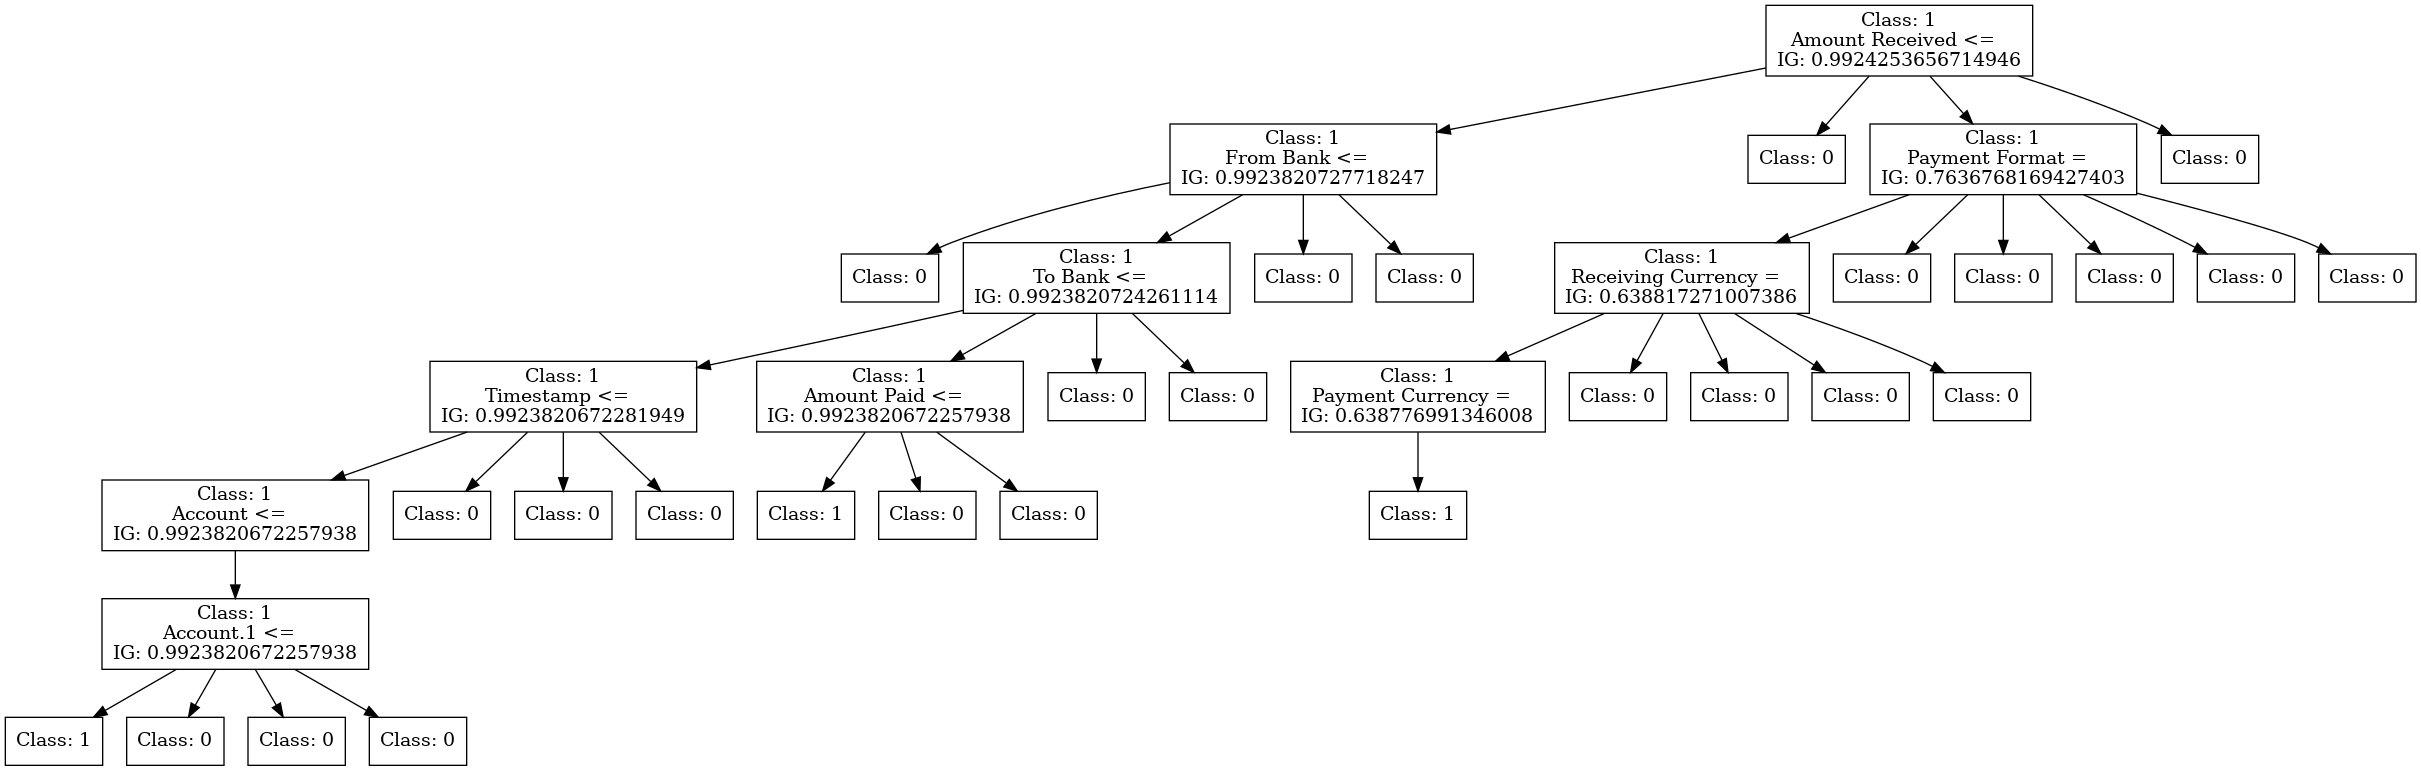
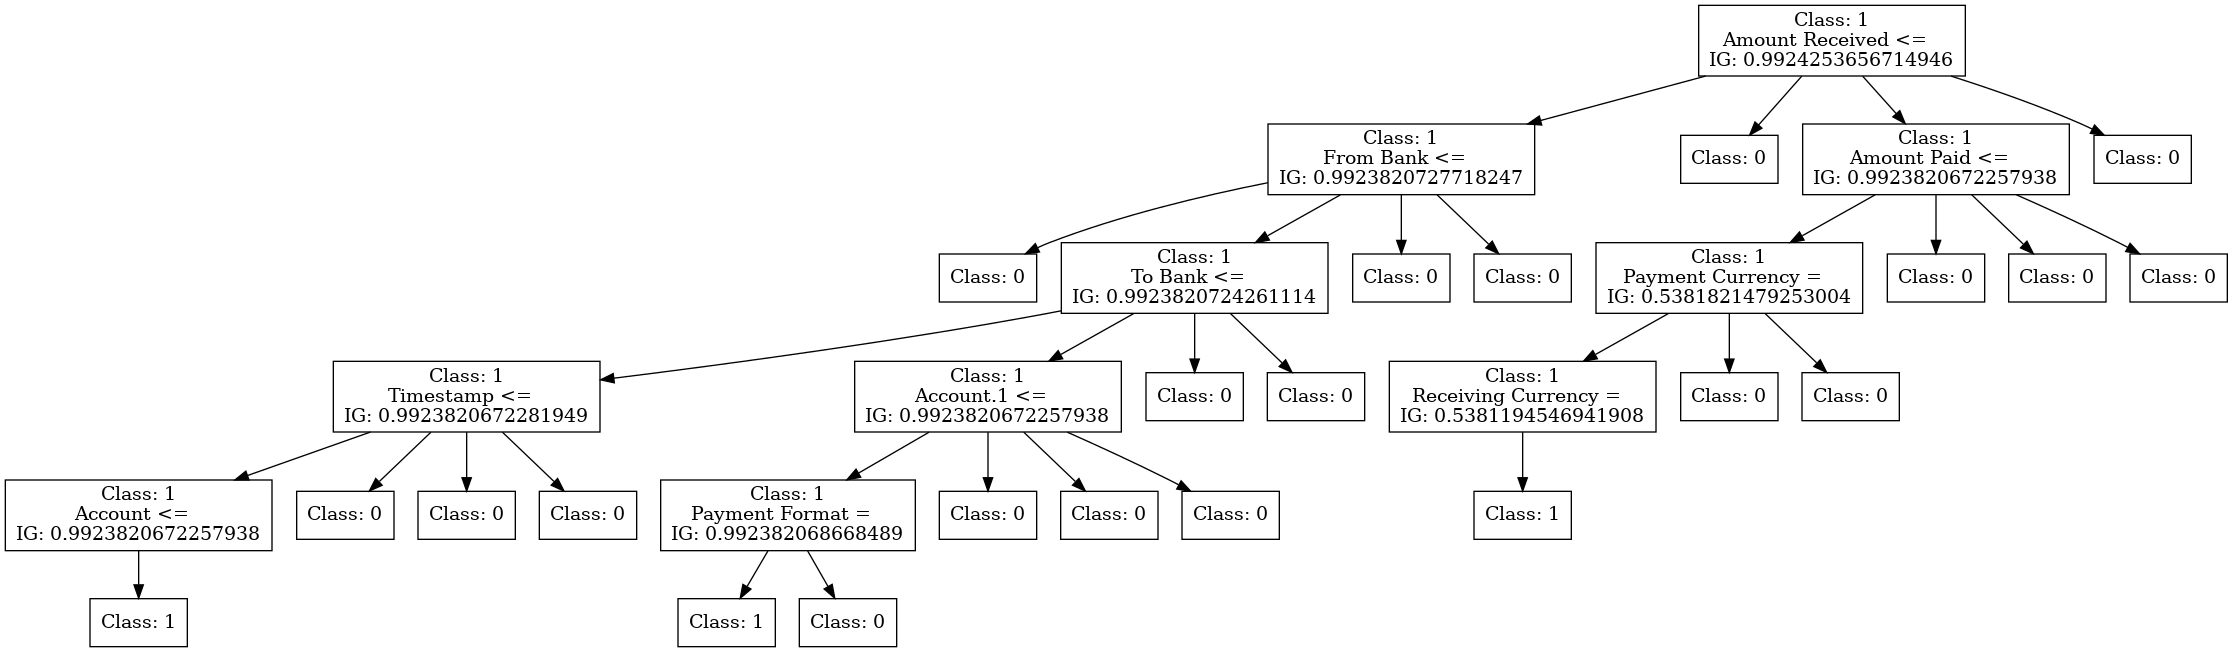
DT: Fix CustomDecisionTree implemtation

diff --git a/src/decision_tree/decision_tree.py b/src/decision_tree/decision_tree.py
@@ -51,51 +51,30 @@ class CustomConditionNode(ConditionNode):
         """
         imp_func: 0 = entropy, 1 = gini
         """
-        imp_func: MethodType = self._scaled_entropy if imp_func == self.IMP_FUNC_ENTROPY else self._gini_impurity
+        imp_func: MethodType = self._entropy if imp_func == self.IMP_FUNC_ENTROPY else self._gini_impurity
         mask: pd.Series = attr_series == test_value if is_categorical else attr_series <= test_value
         a: int   = sum(mask)
         b: int   = sum(~mask)
         tot: int = a + b
-        return imp_func(self.df_y) - (a/tot)*imp_func(self.df_y[mask]) - (b/tot)*imp_func(self.df_y[~mask])
-    
-    def _scaled_entropy(self, y: pd.Series) -> float:
-        if isinstance(y, pd.Series):
-            prob: float    = y.value_counts() / y.shape[0]
-            e: float       = 1e-9
-            entropy: float = np.sum(-prob * np.log2(prob+e))
-            return entropy
-        else:
-            raise Exception("y must be a pandas Series")
+        return imp_func(self.df_y) - (a/tot)*imp_func(self.df_y.loc[list(self.subset_indeces)][mask]) - (b/tot)*imp_func(self.df_y.loc[list(self.subset_indeces)][~mask])
     
     def _generate_attribute_best(self, imp_func=IMP_FUNC_ENTROPY):
-        # To choice the best feature to split
-            # if the variable is in R:
-                # threshold based splitting (quartile based splitting)          
-            # else:imp_func
-                # categorical based splitting (for each value of the feature)
-            # choose the feature with the smallest/greatest ConditionNode.condition
-
-        # y = self.df_y.take(list(self.root.subset_indeces))
-        # gini = self.gini_impurity(y)
-        # print("Gini: " + f"{gini:.5f}")
-
-        max_info_gain: float = -1
+        max_info_gain: float         = -1
         max_info_gain_attr_name: str = None
 
         for attr_name in self.df_x.columns:
-
             attr_series: pd.Series = self.df_x[attr_name]
             is_categorical = self.df_x.dtypes[attr_name] == np.int64 and attr_series.nunique() < 20
             
-
             if is_categorical:
                 possible_values: list[int] = attr_series.unique() 
             else:
-                step = 0.20
-                possible_values: list[float] = attr_series.quantile(np.arange(0, 1, step=step)).values
+                n_groups: int = 4
+                possible_values: list[float] = attr_series.quantile(np.arange(0, 1, step=1/n_groups) + 1/n_groups).values
             
-            best_val: float = -1.
-            best_ig: float  = -1.
+            best_val: float = -1.0
+            best_ig: float  = -1.0
+
             for value in possible_values:
                 information_gain: float = self._information_gain(attr_series, value, imp_func)
                 if information_gain > best_ig:
@@ -113,70 +92,80 @@ class CustomConditionNode(ConditionNode):
         
         self.set_dot_attr(attr_name, best_val, best_ig, is_categorical)
         
-
     def _generate_attribute_random(self, imp_func: int = IMP_FUNC_ENTROPY) -> FunctionType:
         """
         imp_func: 0 = entropy, 1 = gini
         """
         index: int             = random.randint(0, len(self.df_x.columns) - 1)
         attr_name: str         = self.df_x.columns[index] # "Payment Currency"
-        attr_series: pd.Series = self.df_x[attr_name]
-        is_categorical = self.df_x.dtypes[index] == np.int64 and attr_series.nunique() < 20 # TODO: Update using the method
+        attr_series: pd.Series = self.df_x[attr_name].loc[list(self.subset_indeces)]
+        is_categorical = self._is_categorical(attr_name)
 
         if is_categorical:
             possible_values: list[int] = attr_series.unique() 
         else:
-            step = 0.20
-            possible_values: list[float] = attr_series.quantile(np.arange(0, 1, step=step)).values
+            n_groups: int = 4 
+            possible_values: list[float] = attr_series.quantile(np.arange(0, 1, step=1/n_groups) + 1/n_groups, interpolation="nearest").values
         
         # print(f"Possible values: {possible_values}")
 
-        best_val: float = -1.
-        best_ig: float  = -1.
+        max_val: float = -1.0
+        max_ig: float  = -1.0
         for value in possible_values:
             information_gain: float = self._information_gain(attr_series, value, imp_func)
-            if information_gain > best_ig:
-                best_ig = information_gain
-                best_val = value
+            if information_gain > max_ig:
+                max_ig = information_gain
+                max_val = value
 
         if is_categorical:
-            self.condition: LambdaType = lambda row: row[attr_name] == best_val
+            self.condition: LambdaType = lambda row: row[attr_name] == max_val
         else:
-            self.condition: LambdaType = lambda row: row[attr_name] <= best_val
+            self.condition: LambdaType = lambda row: row[attr_name] <= max_val
         
-        self.set_dot_attr(attr_name, best_val, best_ig, is_categorical)
+        self.set_dot_attr(attr_name, max_val, max_ig, is_categorical)
 
     def generate_condition(self, type_criterion: int = 0, imp_func: int = 0) -> FunctionType:
         """
         type_criterion: 0 = random, 1 = best
         imp_func: 0 = entropy, 1 = gini
         """
-        if type_criterion == self.TYPE_CRIT_BEST:
-            self._generate_attribute_best(imp_func)
-        else:
-            self._generate_attribute_random(imp_func)
+        match type_criterion:
+            case self.TYPE_CRIT_RANDOM:
+                self._generate_attribute_random(imp_func)
+            case self.TYPE_CRIT_BEST:
+                self._generate_attribute_best(imp_func)
+            case _:
+                raise ValueError("Invalid type_criterion value")
         return self
     
 
 class CustomDecisionTree(AbstractDecisionTree):
-
     def __init__(self, criterion, type_criterion=CustomConditionNode.TYPE_CRIT_RANDOM, max_depth=5, min_samples_split=2):
         super().__init__(max_depth=max_depth, min_samples_split=min_samples_split)
+        """
+        criterion: 0 = entropy, 1 = gini
+        type_criterion: 0 = random, 1 = best
+        """
         self.criterion = criterion
         self.type_criterion = type_criterion
+
+        print("CRITERION: " + ("Entropy" if self.criterion == 0 else "Gini"))
+        print("TYPE CRITERION: " + ("Random" if self.type_criterion == 0 else "Best"))
+        print("MAX DEPTH: " + str(self.max_depth))
+        print("MIN SAMPLES SPLIT: " + str(self.min_samples_split))
     
     def fit(self, df_x: pd.DataFrame, df_y: pd.DataFrame):
         self.root: ConditionNode = CustomConditionNode(value=round(sum(df_y) / len(df_y)), 
                                                        subset_indeces=set(df_x.index.tolist()))
         self.root.set_df_x(df_x)
         self.root.set_df_y(df_y)
-             
+
         self.__fit_rec(self.root, 0)
 
     def __fit_rec(self, node: ConditionNode, depth):
         if (depth >= self.max_depth
-           or len(node.subset_indeces) < self.min_samples_split
-           or len(set(node.get_labels())) == 1):
+            or len(node.subset_indeces) < self.min_samples_split
+            or len(set(node.get_labels())) == 1):
             return
 
         node.generate_condition(imp_func=self.criterion).split()

diff --git a/src/main_decision_tree.py b/src/main_decision_tree.py
@@ -65,13 +65,13 @@ if __name__ == "__main__":
     X_train, _ = label_encoder(X_train, ['Timestamp', 'Account', 'Account.1', 'Receiving Currency', 'Payment Currency', 'Payment Format'])
     X_test, _ = label_encoder(X_test, ['Timestamp', 'Account', 'Account.1', 'Receiving Currency', 'Payment Currency', 'Payment Format'])
     # ----------------------------------------------------------------------------
-
+    
     # ID3
     # ----------------------------------------------------------------------------
     print()
     print("ID3 --------------------------")    
     start_time = time.time()
-    decision_tree: DecisionTreeID3 = DecisionTreeID3(max_depth=10, numerical_attr_groups=3)
+    decision_tree: DecisionTreeID3 = DecisionTreeID3(max_depth=5, numerical_attr_groups=3)
     decision_tree.fit(X_train, y_train)
     end_time = time.time()
     decision_tree.create_dot_files(filename="tree-id3", generate_png=True, view=VIEW)
@@ -82,39 +82,21 @@ if __name__ == "__main__":
     accuracy, f1_score = p_measures.calculate_performances(predictions, y_test, verbose=True)
     print("END ID3 --------------------------")
     # ----------------------------------------------------------------------------
-   
-    assert(False)
 
     # CUSTOM
     # ----------------------------------------------------------------------------
     print()
     print("CUSTOM --------------------------")
-    performances_accuracy = []
-    performances_F1_score = []
-
-    n_iter = 1
-
-    for i in range(n_iter):
-        decision_tree = CustomDecisionTree(criterion=0, type_criterion=0, max_depth=10)
-        decision_tree.fit(X_train, y_train)
-        decision_tree.create_dot_files(filename="tree-custom", generate_png=True, view="open")
-
-        predictions = list(decision_tree.predict_test(X_test))
-        
-        accuracy, f1_score = p_measures.calculate_performances(predictions, y_test)
-        
-        print("Accuracy:", accuracy)
-        print("F_1 score:", f1_score)
-
-        performances_accuracy.append(accuracy)
-        performances_F1_score.append(f1_score)
-    
-    # print("\n\nAverage accuracy:", sum(performances_accuracy)/n_iter)
-    # print("Average F_1 score:", sum(performances_F1_score)/n_iter)
-
-    # print(type(X_train.iloc[0].values)) # <class 'numpy.ndarray'>
-    # print(X_train.iloc[0]["Timestamp"])
-    
+    start_time = time.time()
+    decision_tree = CustomDecisionTree(criterion=0, type_criterion=1, max_depth=5, min_samples_split=20)
+    decision_tree.fit(X_train, y_train)
+    end_time = time.time()
+    decision_tree.create_dot_files(filename="tree-custom", generate_png=True, view=VIEW)
+    print()
+    print("Performances --------------------------")
+    predictions = list(decision_tree.predict_test(X_test))
+    print(f"Fit time: {end_time - start_time} seconds")
+    accuracy, f1_score = p_measures.calculate_performances(predictions, y_test, verbose=True)
     print("END CUSTOM --------------------------")
     # ----------------------------------------------------------------------------
 

diff --git a/src/decision_tree/ID3.py b/src/decision_tree/ID3.py
@@ -1,3 +1,4 @@
+import time
 import math
 import pandas as pd
 import numpy as np
@@ -90,6 +91,7 @@ class ConditionNodeID3(ConditionNode):
         if self.condition is None:
             raise Exception("Condition is None")
         else:
+            st = time.time()
             df_filtered: pd.DataFrame = self.df_x.loc[list(self.subset_indeces)]
 
             children_indices = {}
@@ -105,13 +107,18 @@ class ConditionNodeID3(ConditionNode):
                                                             subset_indeces=set(children_indices[key]), 
                                                             splitted_attr_names=self.splitted_attr_names,
                                                             numerical_attr_groups=self.numerical_attr_groups)})
+            et = time.time()
+            print("SPLIT TIME: ", et - st)
             return self
 
 class DecisionTreeID3(AbstractDecisionTree):
     def __init__(self, max_depth: int = 5, numerical_attr_groups: int = 1):
         super().__init__(max_depth=max_depth)
         self.numerical_attr_groups: int = numerical_attr_groups
-    
+
+        print("MAX DEPTH:", self.max_depth)
+        print("NUMERICAL ATTR GROUPS:", self.numerical_attr_groups)
+
     def fit(self, df_x: pd.DataFrame, df_y: pd.DataFrame):
         self.root = ConditionNodeID3(value=round(sum(df_y) / len(df_y)), 
                                      subset_indeces=set(df_x.index.tolist()), 
@@ -119,7 +126,7 @@ class DecisionTreeID3(AbstractDecisionTree):
                                      numerical_attr_groups=self.numerical_attr_groups)
         self.root.set_df_x(df_x)
         self.root.set_df_y(df_y)
-             
+        
         self._fit_rec(self.root, 0)
 
     def _fit_rec(self, node: ConditionNodeID3, depth: int):
@@ -129,12 +136,6 @@ class DecisionTreeID3(AbstractDecisionTree):
             or len(node.splitted_attr_names) == len(node.df_x.columns)):
             return
             
-        labels_sum = sum(node.get_labels())
-
-        # Test if all labels are equal
-        if labels_sum == 0 or labels_sum == len(node.get_labels()):
-            return
-         
         print(f"\nThe nodes {node.splitted_attr_names} have been splitted\n")
         node.generate_condition().split()
 
